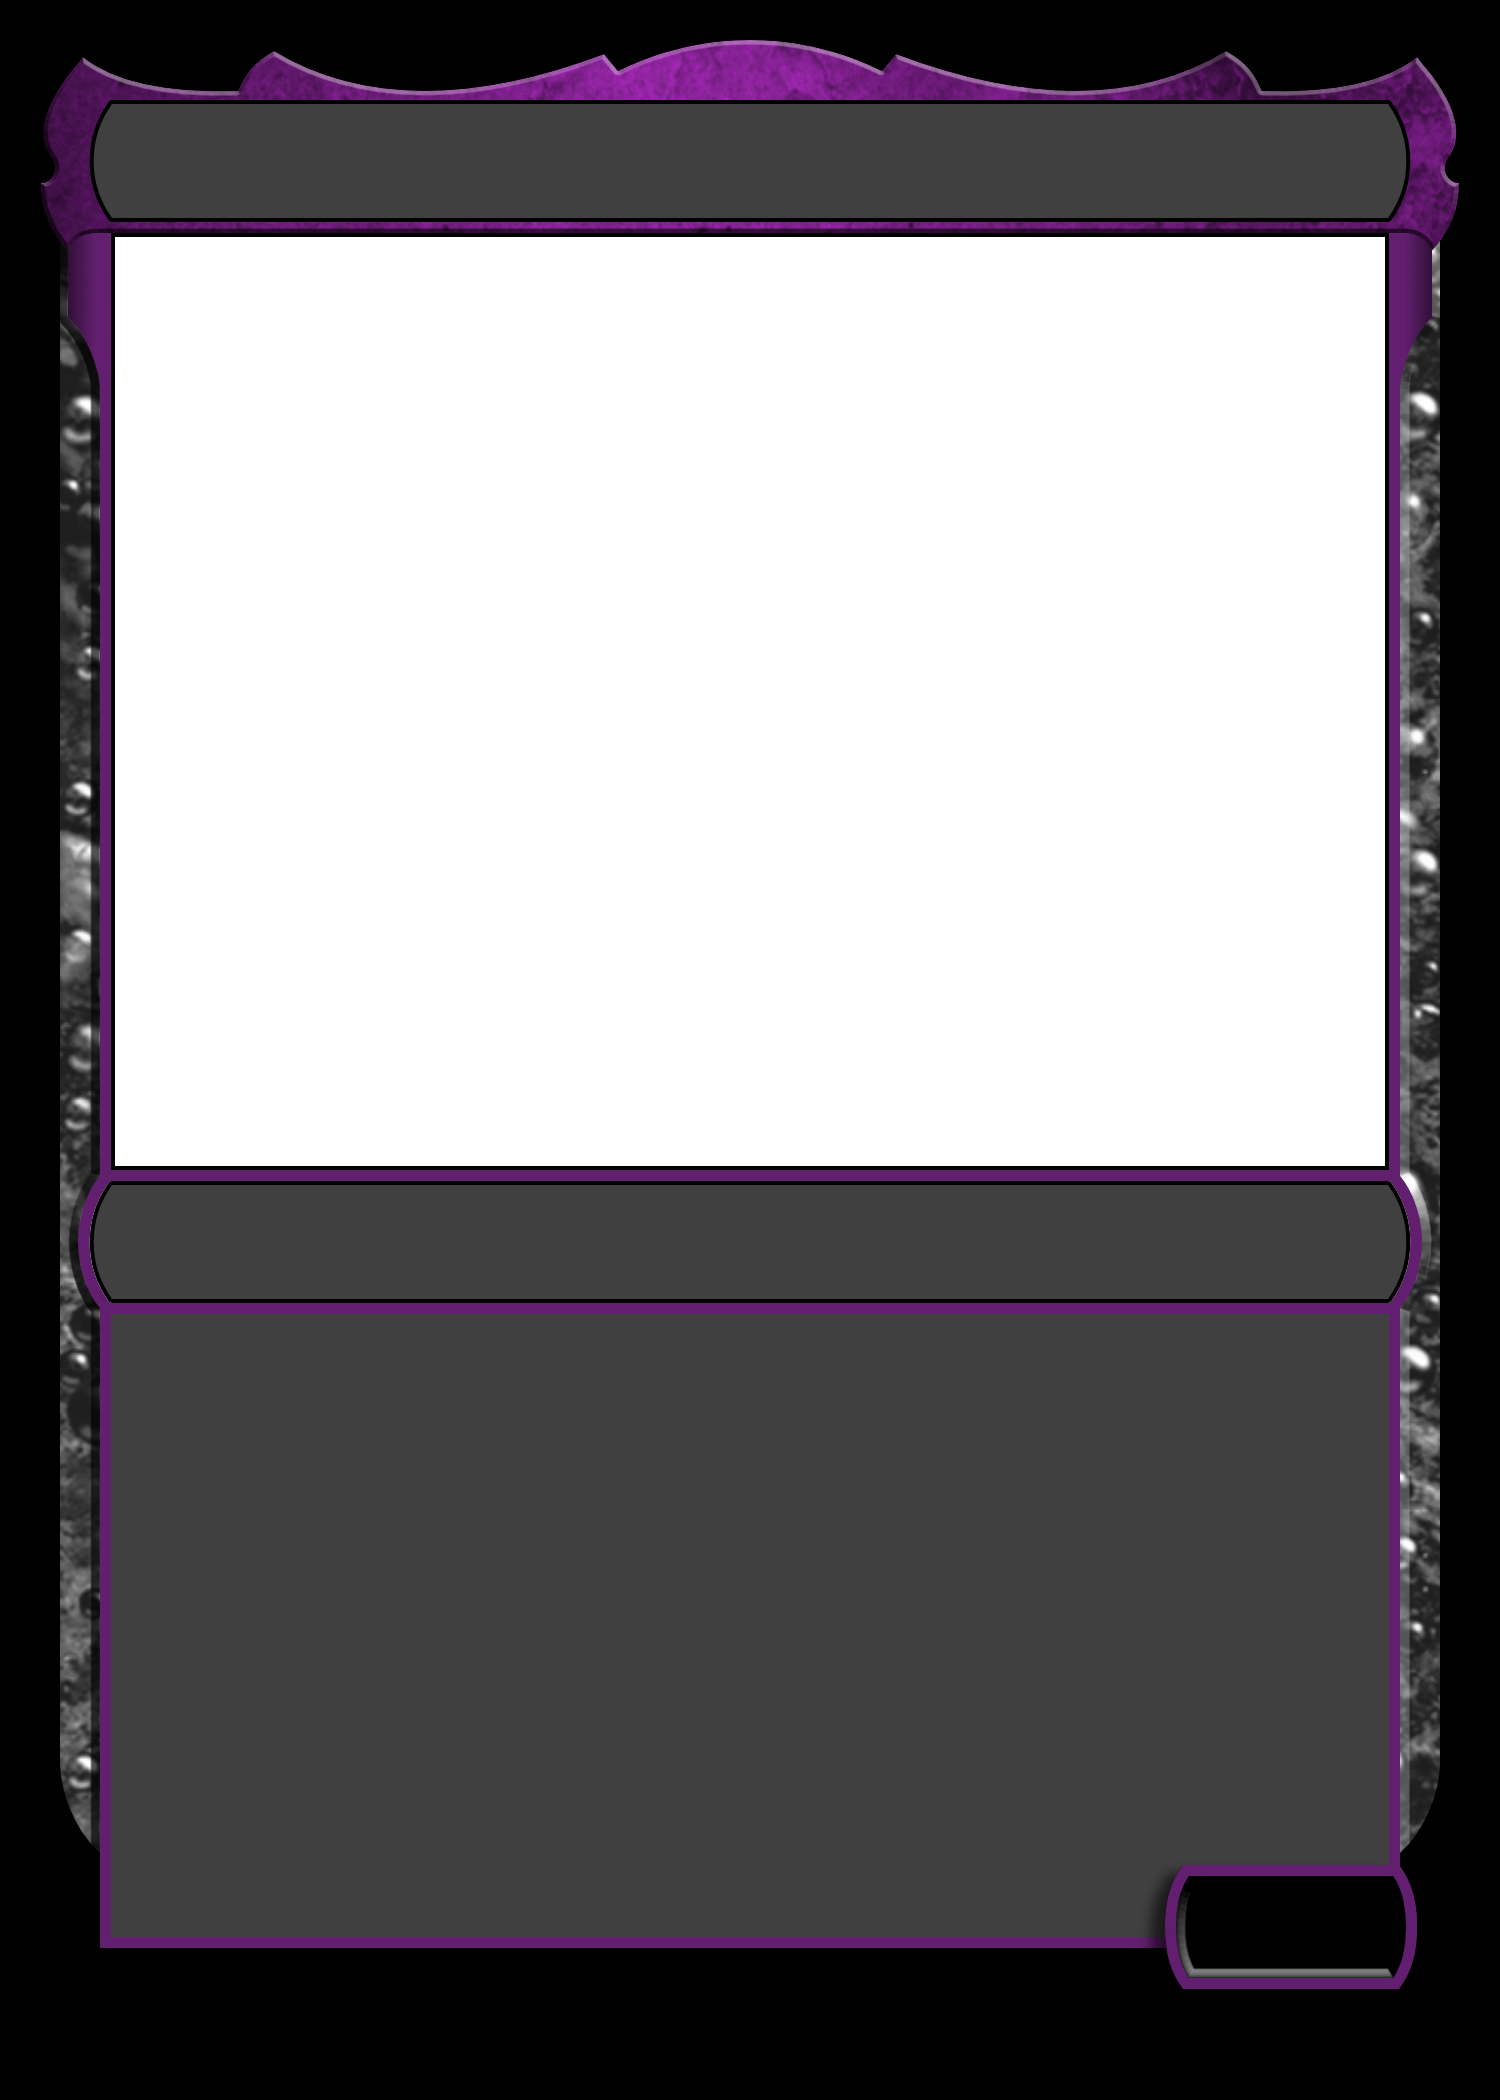
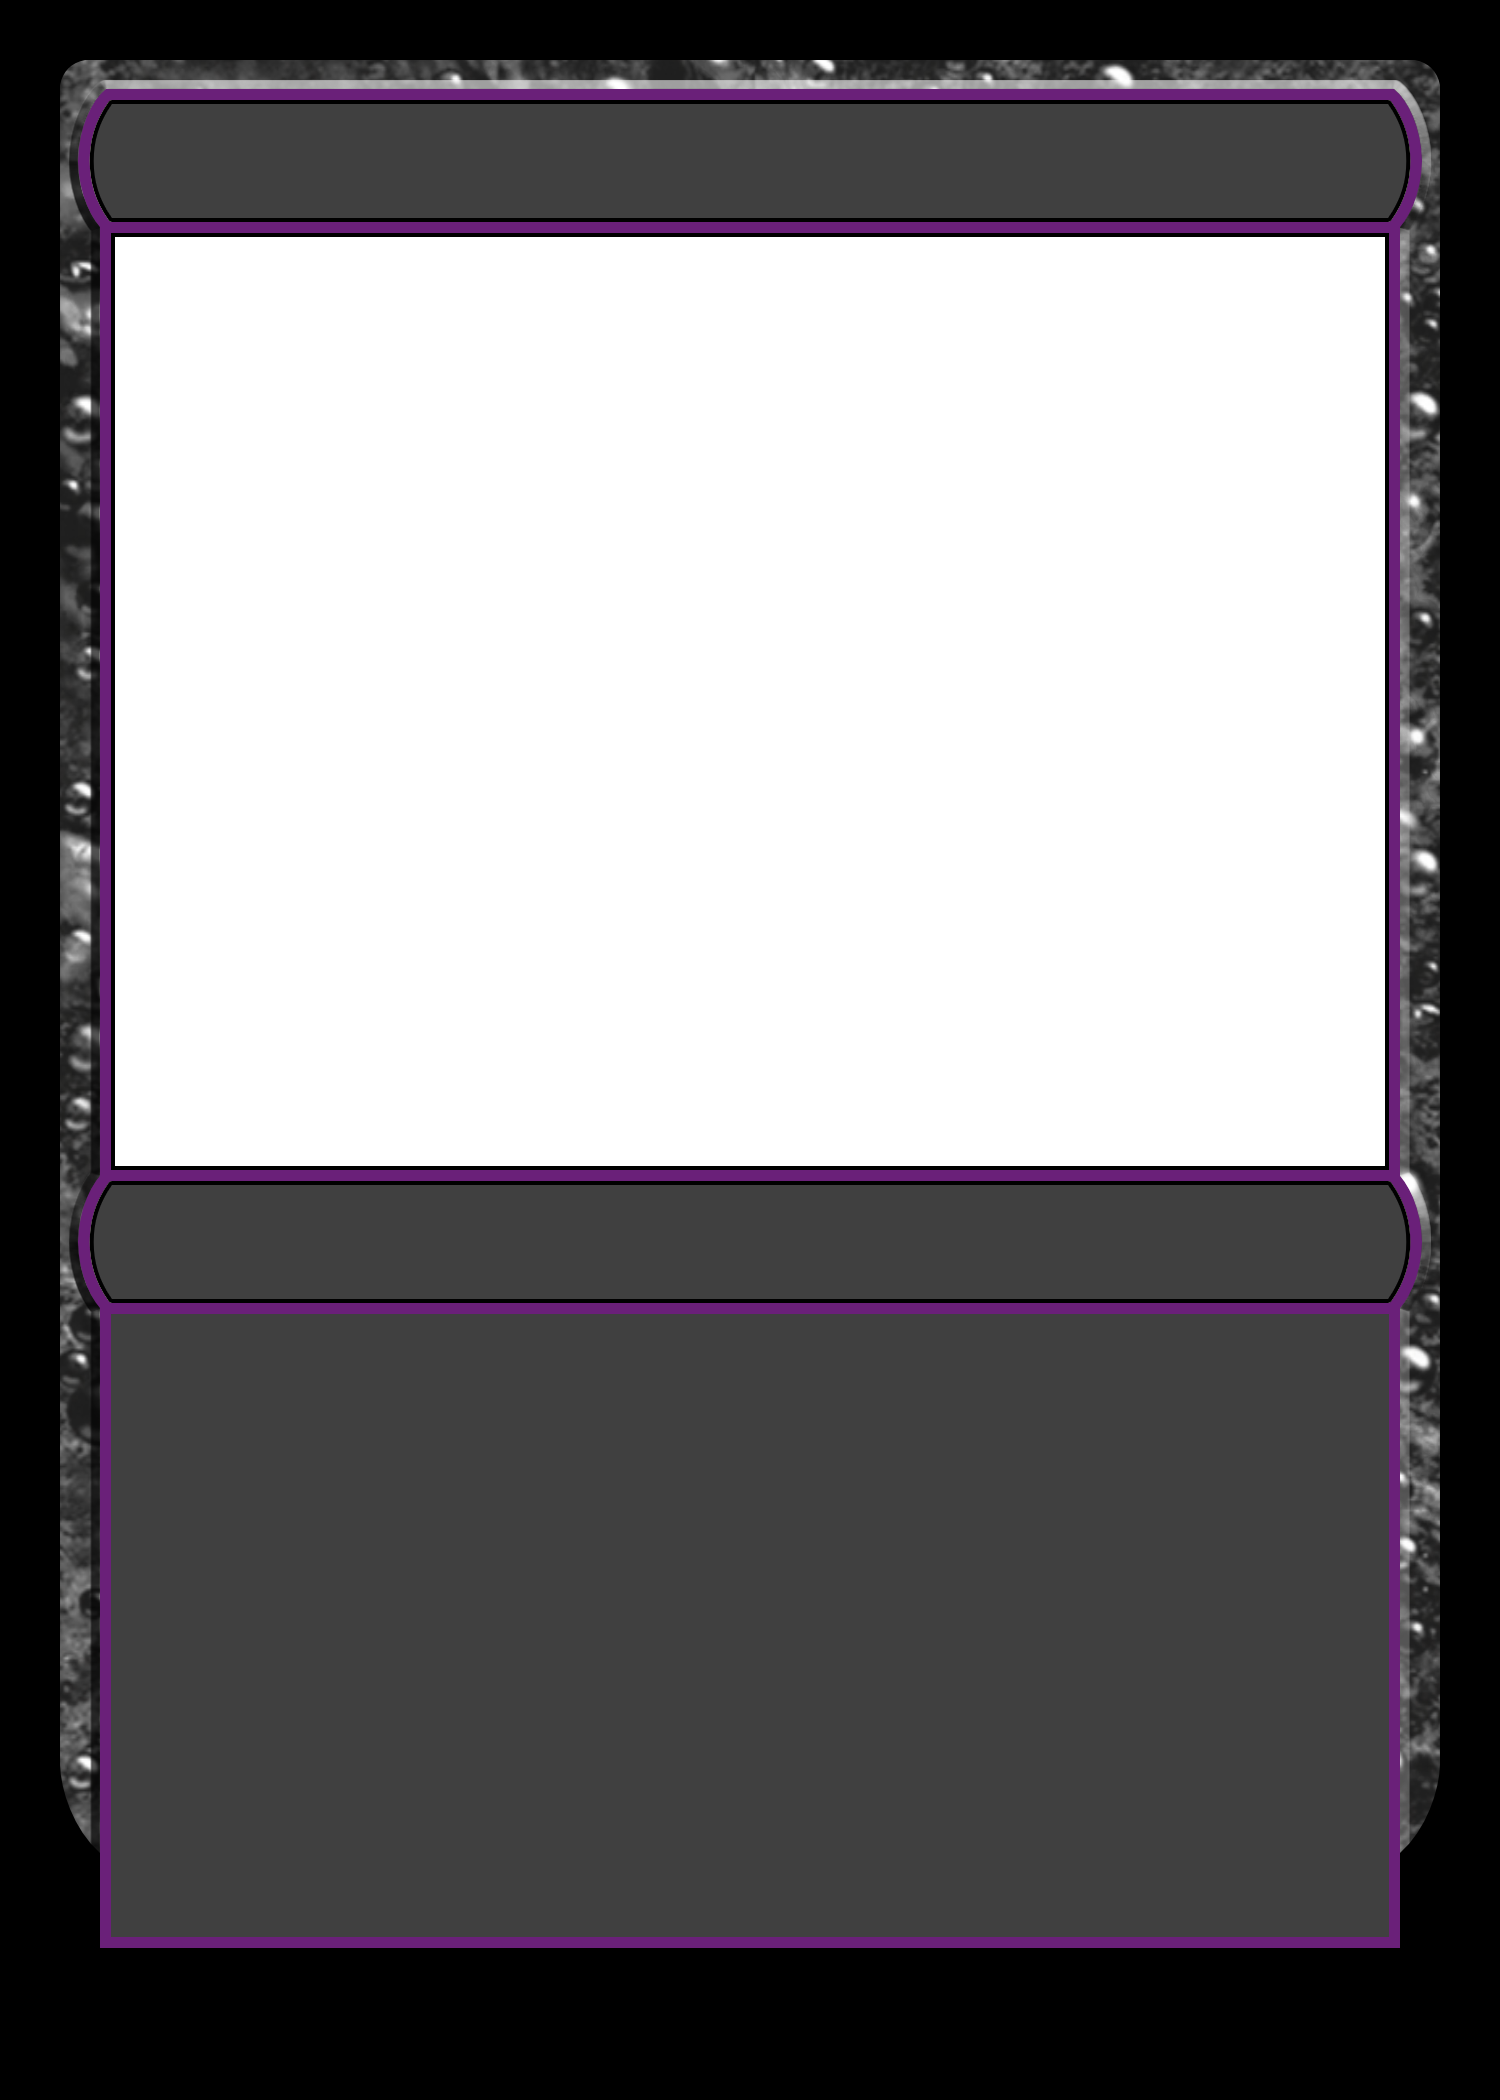
eternal night

diff --git a/js/frames/packEternalNight.js b/js/frames/packEternalNight.js
@@ -1,0 +1,61 @@
+//Create objects for common properties across available frames
+var masks = [{src:'/img/frames/m15/regular/m15MaskPinline.png', name:'Pinline'}, {src:'/img/frames/m15/regular/m15MaskTitle.png', name:'Title'}, {src:'/img/frames/m15/regular/m15MaskType.png', name:'Type'}, {src:'/img/frames/m15/regular/m15MaskRules.png', name:'Rules'}, {src:'/img/frames/m15/regular/m15MaskFrame.png', name:'Frame'}, {src:'/img/frames/m15/regular/m15MaskBorder.png', name:'Border'}];
+var bounds = {x:0.7573, y:0.8848, width:0.188, height:0.0733};
+var crownMasks = [{src:'/img/frames/m15/crowns/m15MaskLegendCrown.png', name:'Crown Without Pinlines'}, {src:'/img/frames/m15/crowns/m15MaskLegendCrownPinline.png', name:'Crown With Pinlines'}];
+var crownBounds = {x:0.0274, y:0.0191, width:0.9454, height:0.1667};
+//defines available frames
+availableFrames = [
+	{name:'White Frame', src:'/img/frames/m15/mid/w.png', masks:masks},
+	{name:'Blue Frame', src:'/img/frames/m15/mid/u.png', masks:masks},
+	{name:'Black Frame', src:'/img/frames/m15/mid/b.png', masks:masks},
+	{name:'Red Frame', src:'/img/frames/m15/mid/r.png', masks:masks},
+	{name:'Green Frame', src:'/img/frames/m15/mid/g.png', masks:masks},
+	{name:'Multicolored Frame', src:'/img/frames/m15/mid/m.png', masks:masks},
+	{name:'Artifact Frame', src:'/img/frames/m15/mid/a.png', masks:masks},
+	{name:'Land Frame', src:'/img/frames/m15/mid/l.png', masks:masks},
+	{name:'White Power/Toughness', src:'/img/frames/m15/mid/wpt.png', bounds:bounds},
+	{name:'Blue Power/Toughness', src:'/img/frames/m15/mid/upt.png', bounds:bounds},
+	{name:'Black Power/Toughness', src:'/img/frames/m15/mid/bpt.png', bounds:bounds},
+	{name:'Red Power/Toughness', src:'/img/frames/m15/mid/rpt.png', bounds:bounds},
+	{name:'Green Power/Toughness', src:'/img/frames/m15/mid/gpt.png', bounds:bounds},
+	{name:'Multicolored Power/Toughness', src:'/img/frames/m15/mid/mpt.png', bounds:bounds},
+	{name:'Artifact Power/Toughness', src:'/img/frames/m15/mid/apt.png', bounds:bounds},
+	{name:'Land Power/Toughness', src:'/img/frames/m15/mid/lpt.png', bounds:bounds},
+	{name:'White Legend Crown', src:'/img/frames/m15/crowns/m15CrownW.png', masks:crownMasks, bounds:crownBounds, complementary:24},
+	{name:'Blue Legend Crown', src:'/img/frames/m15/crowns/m15CrownU.png', masks:crownMasks, bounds:crownBounds, complementary:24},
+	{name:'Black Legend Crown', src:'/img/frames/m15/mid/bCrown.png', masks:crownMasks, bounds:crownBounds, complementary:24},
+	{name:'Red Legend Crown', src:'/img/frames/m15/crowns/m15CrownR.png', masks:crownMasks, bounds:crownBounds, complementary:24},
+	{name:'Green Legend Crown', src:'/img/frames/m15/crowns/m15CrownG.png', masks:crownMasks, bounds:crownBounds, complementary:24},
+	{name:'Multicolored Legend Crown', src:'/img/frames/m15/crowns/m15CrownM.png', masks:crownMasks, bounds:crownBounds, complementary:24},
+	{name:'Artifact Legend Crown', src:'/img/frames/m15/crowns/m15CrownA.png', masks:crownMasks, bounds:crownBounds, complementary:24},
+	{name:'Land Legend Crown', src:'/img/frames/m15/crowns/m15CrownL.png', masks:crownMasks, bounds:crownBounds, complementary:24},
+	{name:'Legend Crown Border Cover', src:'/img/black.png', bounds:{x:0.0394, y:0.0277, width:0.9214, height:0.0177}}
+];
+//disables/enables the "Load Frame Version" button
+document.querySelector('#loadFrameVersion').disabled = false;
+//defines process for loading this version, if applicable
+document.querySelector('#loadFrameVersion').onclick = async function() {
+	//resets things so that every frame doesn't have to
+	await resetCardIrregularities();
+	//sets card version
+	card.version = 'm15MID';
+	//art bounds
+	card.artBounds = {x:0.0594, y:0.0477, width:0.8814, height:0.8762};
+	autoFitArt();
+	//set symbol bounds
+	card.setSymbolBounds = {x:0.9213, y:0.5910, width:0.12, height:0.0410, vertical:'center', horizontal: 'right'};
+	resetSetSymbol();
+	//watermark bounds
+	card.watermarkBounds = {x:0.5, y:0.7762, width:0.75, height:0.2305};
+	resetWatermark();
+	//text
+	loadTextOptions({
+		mana: {name:'Mana Cost', text:'', y:0.0613, width:0.9292, height:71/2100, oneLine:true, size:71/1638, align:'right', shadowX:-0.001, shadowY:0.0029, manaCost:true, manaSpacing:0},
+		title: {name:'Title', text:'', x:0.0854, y:0.0522, width:0.8292, height:0.0543, oneLine:true, font:'belerenb', size:0.0381, color:'white'},
+		type: {name:'Type', text:'', x:0.0854, y:0.5664, width:0.8292, height:0.0543, oneLine:true, font:'belerenb', size:0.0324, color:'white'},
+		rules: {name:'Rules Text', text:'', x:0.086, y:0.6303, width:0.828, height:0.2875, size:0.0362, color:'white'},
+		pt: {name:'Power/Toughness', text:'', x:0.7928, y:0.902, width:0.1367, height:0.0372, size:0.0372, font:'belerenbsc', oneLine:true, align:'center', color:'white'}
+	});
+}
+//loads available frames
+loadFramePack();
